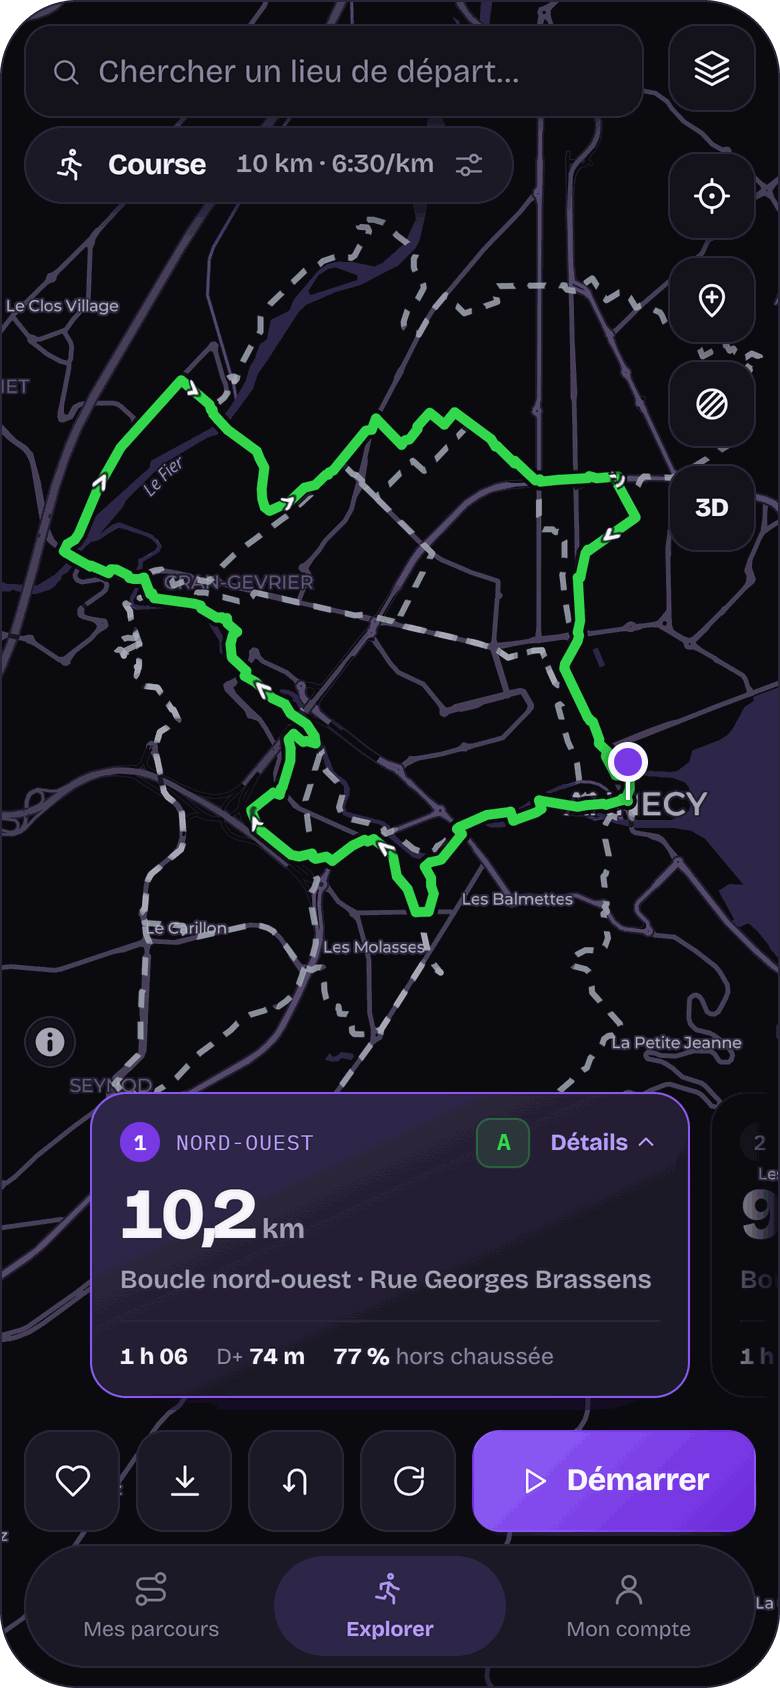
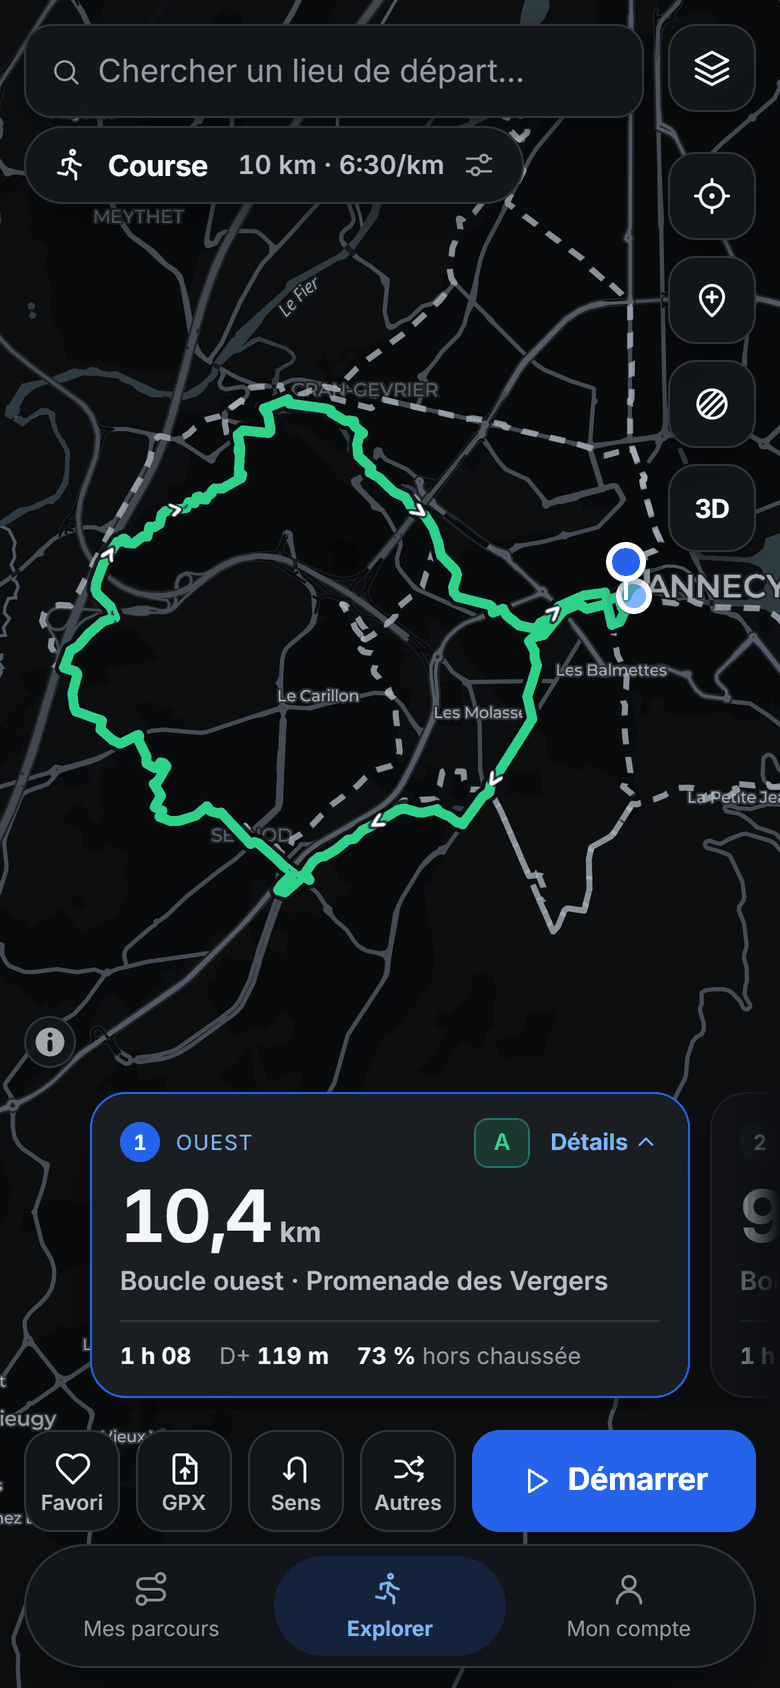
La page d'accueil du dépôt montre le nouvel habillage : six captures refaites à Annecy (boucles, course, détail, survol 3D, filtres, Apparence), la forme au choix, le côté de la route, les nouveaux gestes et les 1169 tests

diff --git a/README.md b/README.md
@@ -4,12 +4,12 @@
 
 # Lacet
 
-[![Télécharger l'IPA](https://img.shields.io/badge/T%C3%A9l%C3%A9charger-derni%C3%A8re%20IPA-7c3aed?style=for-the-badge&logo=apple&logoColor=white)](https://github.com/ImShimao/lacet/releases/latest/download/Lacet.ipa)
+[![Télécharger l'IPA](https://img.shields.io/badge/T%C3%A9l%C3%A9charger-derni%C3%A8re%20IPA-2563eb?style=for-the-badge&logo=apple&logoColor=white)](https://github.com/ImShimao/lacet/releases/latest/download/Lacet.ipa)
 [![Installer avec AltStore](https://img.shields.io/badge/Installer-AltStore-1F1B2E?style=for-the-badge)](#installation-)
 
 [![Tests](https://github.com/ImShimao/lacet/actions/workflows/tests.yml/badge.svg?branch=main)](https://github.com/ImShimao/lacet/actions/workflows/tests.yml)
 [![App iPhone (IPA)](https://github.com/ImShimao/lacet/actions/workflows/ios.yml/badge.svg?branch=main)](https://github.com/ImShimao/lacet/actions/workflows/ios.yml)
-[![1068 tests](https://img.shields.io/badge/tests-1068%20%E2%9C%93-4ade80)](#tests-)
+[![1169 tests](https://img.shields.io/badge/tests-1169%20%E2%9C%93-4ade80)](#tests-)
 [![Capacitor 8](https://img.shields.io/badge/Capacitor-8-119EFF?logo=capacitor&logoColor=white)](https://capacitorjs.com/)
 [![MapLibre 5](https://img.shields.io/badge/MapLibre_GL-5-396CB2)](https://maplibre.org/)
 [![iOS 15+](https://img.shields.io/badge/iPhone-iOS%2015%2B-1F1B2E?logo=apple&logoColor=white)](#limitations-connues-)
@@ -33,11 +33,11 @@ sécurité, puis te guide à la voix, écran verrouillé.
 
 | Les boucles proposées | En course |
 | :---: | :---: |
-| <img src="docs/images/1-boucles.png" width="300" alt="Une boucle de 10,2 km au départ d'Annecy, notée A, tracée en vert sur la carte sombre, les autres propositions en pointillés"> | <img src="docs/images/2-course.png" width="300" alt="Pendant la sortie : « 190 m, tourne à gauche dans la rue de la République » en bandeau violet, la carte inclinée, le chrono et l'allure en bas"> |
+| <img src="docs/images/1-boucles.png" width="300" alt="Une boucle de 10,4 km au départ de la vieille ville d'Annecy, notée A, tracée en vert sur la carte sombre, les autres propositions en pointillés, la barre Favori, GPX, Sens, Autres et Démarrer en bas"> | <img src="docs/images/2-course.png" width="300" alt="Pendant la sortie : « 30 m, tourne franchement à gauche sur le quai des Clarisses » en bandeau bleu, la carte inclinée, le chrono, la distance restante et le bouton pause en bas"> |
 
-| Le détail | Le survol 3D | Les filtres | Les réglages |
+| Le détail | Le survol 3D | Les filtres | L'apparence |
 | :---: | :---: | :---: | :---: |
-| <img src="docs/images/3-detail.png" width="200" alt="Le détail d'une boucle : revêtement, profil de dénivelé coloré par sécurité, feuille de route de 57 consignes"> | <img src="docs/images/4-survol.png" width="200" alt="Le survol 3D : une pastille violette court sur la boucle inclinée, avec 3,6 km et 519 m d'altitude en haut"> | <img src="docs/images/5-filtres.png" width="200" alt="Les filtres : course ou vélo, durée ou distance, 10 km souple à ±10 %, allure 6:30/km"> | <img src="docs/images/6-reglages.png" width="200" alt="Mon compte › Pendant la sortie : pause automatique, écran toujours allumé, ce que dit la voix à chaque kilomètre"> |
+| <img src="docs/images/3-detail.png" width="200" alt="Le détail d'une boucle : revêtement, profil de dénivelé coloré par sécurité, feuille de route repliée"> | <img src="docs/images/4-survol.png" width="200" alt="Le survol 3D : une pastille court sur la boucle inclinée, la part déjà survolée en blanc, la distance et l'altitude en haut"> | <img src="docs/images/5-filtres.png" width="200" alt="Les filtres : course ou vélo, durée ou distance, 10 km souple à ±10 %, allure 6:30/km"> | <img src="docs/images/6-reglages.png" width="200" alt="Mon compte › Apparence : thème auto, sombre ou clair, couleur d'accent bleu, violet, framboise ou graphite, taille du texte"> |
 
 </div>
 
@@ -109,7 +109,9 @@ Le détail : [L'app iPhone](docs/app-iphone.md).
 
 | | |
 | --- | --- |
-| 🔁 **Des boucles** | Jusqu'à douze propositions qui partent dans des directions différentes et reviennent à la porte : 10 km, un semi au mètre près, ou une durée |
+| 🔁 **Des boucles** | Jusqu'à douze propositions qui partent dans des directions différentes et reviennent à la porte : 10 km, un semi au mètre près, ou une durée. Chaque recherche en tire d'autres, dans un autre ordre |
+| ➰ **La forme au choix** | Une boucle entière, deux boucles en « 8 » qui repassent à la porte, ou plusieurs tours d'une même boucle — ou laisser Lacet choisir |
+| 🚸 **Le bon côté** | Au rond-point, on fait le tour du côté où l'on court : à gauche face aux voitures par défaut, comme le veut le code de la route ; la voix le dit en une phrase |
 | 🛡 **Note A, B ou C** | Chaque tronçon est jugé : vitesse de la voie, trottoir ou piste séparée, éclairage la nuit, traversées protégées. Ce qui ne passe pas est écarté, et l'app dit pourquoi |
 | 📈 **Bande de parcours** | Profil et sécurité sur le même axe : savoir qu'il y a 200 m d'exposition ne sert à rien tant qu'on ignore *où* |
 | 🗣 **Guidage vocal** | Chaque virage annoncé deux fois, à l'avance puis au moment d'agir, en baissant la musique le temps de parler — écran verrouillé aussi |
@@ -125,6 +127,7 @@ Le détail : [L'app iPhone](docs/app-iphone.md).
 | 💧 **Points d'eau** | Ceux qui bordent la boucle s'affichent, et la voix prévient cent mètres avant |
 | 🆘 **SOS** | Un bouton prépare un SMS avec ta position ; un proche peut recevoir l'heure prévue du retour |
 | 🚴 **Course ou vélo** | Allure en min/km ou vitesse en km/h, pause automatique aux feux ; à vélo, la voix donne les kilomètres tous les 5 km |
+| 🎨 **Apparence** | Thème sombre, clair ou celui de l'iPhone, quatre couleurs d'accent, texte agrandi |
 | 🙈 **Rien ne part** | Pas de compte, pas de serveur, pas de suivi : favoris, sorties et réglages restent sur le téléphone |
 
 ### Les gestes sur la carte 👆
@@ -133,12 +136,14 @@ La carte occupe tout l'écran ; presque tout se fait au doigt, dessus.
 
 | Geste | Effet |
 | --- | --- |
-| Glisser le repère violet | Déplacer le départ |
+| Glisser le repère | Déplacer le départ |
 | Appui long | Poser un fanion : les boucles passent par ce point |
 | Cercle hachuré, puis toucher | Poser le centre d'une zone à éviter ; glisser sa poignée la déplace |
 | Toucher une boucle en pointillés | La mettre en avant |
 | Toucher la carte de parcours | Déplier le détail ; la poignée grise le replie |
-| Parcourir la bande du doigt | Allumer le point correspondant sur la carte |
+| Parcourir la bande du doigt | Allumer le point correspondant sur la carte, le détail s'effaçant le temps du geste |
+| Toucher une consigne de la feuille de route | Replier le détail et amener la carte sur le virage |
+| Glisser une ligne de « Mes parcours » vers la gauche | Renommer ou retirer un favori ou une sortie |
 | En course : tourner ou déplacer la carte | La libérer du suivi ; **Recentrer** la reprend, pincer ne libère rien |
 | Pendant le survol 3D : toucher | Pause, puis reprise ; glisser l'arrête |
 
@@ -165,7 +170,7 @@ flowchart LR
 
 **Un moteur de référence en Python** (`backend/`) garde la justification et le
 test de chaque seuil. Le moteur JavaScript en est le portage, et la CI exige des
-deux, sur 13 cas figés, le même graphe, les mêmes candidats arête par arête et
+deux, sur 19 cas figés, le même graphe, les mêmes candidats arête par arête et
 la même réponse, à 1e-9 près. Un portage subtilement faux proposerait un « A »
 là où il faudrait un « C », et rien à l'écran ne le montrerait. D'où
 `engine/py.js`, qui reproduit l'arithmétique de CPython jusqu'au modulo flottant
@@ -204,7 +209,7 @@ frontend/
 backend/
 ├── app/                     Le moteur de référence : osm/, routing/, safety/,
 │                            elevation.py, wind.py, solar.py, service.py (plan_loops)
-├── tests/                   368 tests sur des damiers synthétiques
+├── tests/                   394 tests sur des damiers synthétiques
 └── scripts/                 parity_dump.py (l'oracle), smoke.py (essai réel)
 scripts/altstore_source.py   Prépare et fait servir la source AltStore
 docs/                        La documentation, un fichier par thème
@@ -276,9 +281,9 @@ et le build à chaque envoi (`.github/workflows/tests.yml`).
 
 | Commande | Couverture |
 | --- | --- |
-| `(cd frontend && npm test)` | 700 tests, 64 fichiers : le moteur JavaScript, l'interface sous jsdom, et des sorties entières écoutées consigne par consigne (`LiveRun.voice.test.jsx`) |
-| `(cd frontend && npx vitest run src/engine/parity.test.js)` | Le JavaScript face à Python sur 13 cas figés : même graphe, mêmes candidats, même réponse à 1e-9 près |
-| `(cd backend && .venv/Scripts/python.exe -m pytest)` | 368 tests, 15 fichiers, hors ligne et déterministes |
+| `(cd frontend && npm test)` | 775 tests, 67 fichiers : le moteur JavaScript, l'interface sous jsdom, et des sorties entières écoutées consigne par consigne (`LiveRun.voice.test.jsx`) |
+| `(cd frontend && npx vitest run src/engine/parity.test.js)` | Le JavaScript face à Python sur 19 cas figés : même graphe, mêmes candidats, même réponse à 1e-9 près |
+| `(cd backend && .venv/Scripts/python.exe -m pytest)` | 394 tests, 16 fichiers, hors ligne et déterministes |
 | `(cd backend && .venv/Scripts/python.exe scripts/parity_dump.py --check)` | Dit, sans rien écrire, si l'oracle de parité est à jour |
 | `(cd backend && .venv/Scripts/python.exe -X utf8 scripts/smoke.py annecy 8)` | Essai réel : appelle OpenStreetMap, montre les boucles retenues **et** celles écartées, avec leur motif |
 
